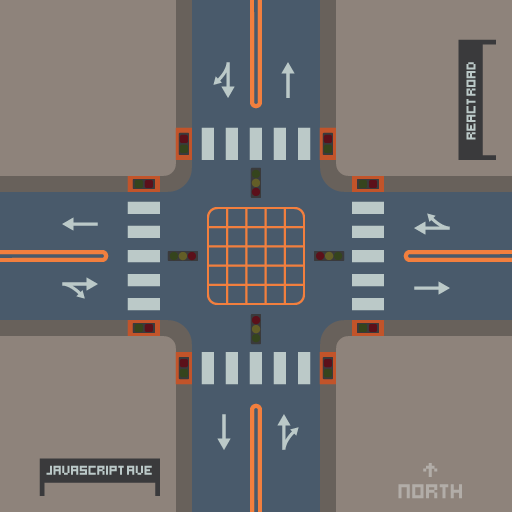
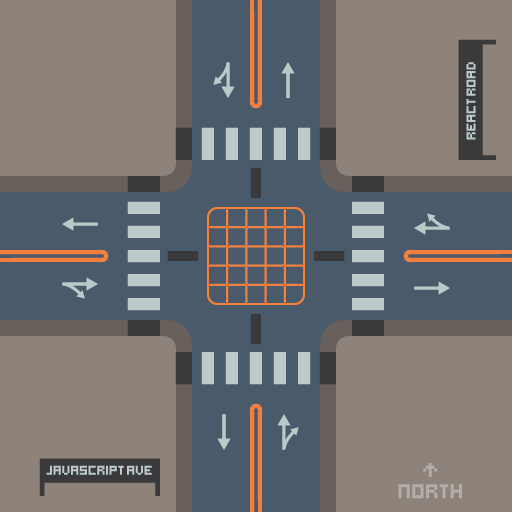
Cambios finales, faltaría comentarlo

diff --git a/src/styles/index.css b/src/styles/index.css
@@ -27,8 +27,14 @@ body {
     box-shadow: inset 0px 0px 10px rgba(0,0,0,0.5);
 }
 
+.title {
+    height: 60px;
+    margin-top: 60px;
+    text-align: center;
+}
+
 h1 {
-    font-family: 'Press Start 2P', cursive;
+    font-family: 'VT323';
 }
 
 .JSTtrafNorth {
@@ -50,35 +56,53 @@ h1 {
     top: 206px;
 }
 
-.JSPedWestN {
+.JSPedNorthNE {
     position:relative;
     display: block;
-    left:112px;
-    top:142px;
-    -webkit-transform:rotate(90deg);
-    -moz-transform: rotate(90deg);
-    -ms-transform: rotate(90deg);
-    -o-transform: rotate(90deg);
-    transform: rotate(90deg);
+    left:36px;
+    top: 104px;    
+    -webkit-transform:rotate(180deg);
+    -moz-transform: rotate(180deg);
+    -ms-transform: rotate(180deg);
+    -o-transform: rotate(180deg);
+    transform: rotate(180deg);
+    
 }
 
-.JSPedWestS {
+.JSPedNorthNW {
     position:relative;
     display: block;
-    left:112px;
-    top:264px;
-    -webkit-transform:rotate(90deg);
-    -moz-transform: rotate(90deg);
-    -ms-transform: rotate(90deg);
-    -o-transform: rotate(90deg);
-    transform: rotate(90deg);
+    right:36px;
+    top: 84px;    
+
+    
+}
+
+.JSPedSouthSE {
+    position:relative;
+    display: block;
+    left:36px;
+    top: 288px;    
+    -webkit-transform:rotate(180deg);
+    -moz-transform: rotate(180deg);
+    -ms-transform: rotate(180deg);
+    -o-transform: rotate(180deg);
+    transform: rotate(180deg);
+    
+}
+
+.JSPedSouthSW {
+    position:relative;
+    display: block;
+    right:36px;
+    top: 270px;
 }
 
 
 
 
 .RETrafEast {
-    position: relative;
+    position:relative;
     display: block;
     left:74px;
     top:66px;
@@ -89,11 +113,11 @@ h1 {
     transform: rotate(-90deg);
 }
 
-.RETWest {
+.RETrafWest {
     position: relative;
     display: block;
     right:74px;
-    top:66px;
+    top:68px;
     -webkit-transform:rotate(90deg);
     -moz-transform: rotate(90deg);
     -ms-transform: rotate(90deg);
@@ -101,14 +125,54 @@ h1 {
     transform: rotate(90deg);
 }
 
-.REPedNorth{
+.REPedEastNE {
     position:relative;
     display: block;
-    right:300px;
+    left:112px;
+    top: 42px;    
+    -webkit-transform:rotate(90deg);
+    -moz-transform: rotate(90deg);
+    -ms-transform: rotate(90deg);
+    -o-transform: rotate(90deg);
+    transform: rotate(90deg);
+    
 }
 
-.REPedSouth {
+.REPedEastSE {
     position:relative;
     display: block;
-    right:320px;
+    left:112px;
+    top: 92px;    
+    -webkit-transform:rotate(-90deg);
+    -moz-transform: rotate(-90deg);
+    -ms-transform: rotate(-90deg);
+    -o-transform: rotate(-90deg);
+    transform: rotate(-90deg);
+    
+}
+
+.REPedWestNW {
+    position:relative;
+    display: block;
+    right:112px;
+    bottom: 48px;    
+    -webkit-transform:rotate(90deg);
+    -moz-transform: rotate(90deg);
+    -ms-transform: rotate(90deg);
+    -o-transform: rotate(90deg);
+    transform: rotate(90deg);
+    
+}
+
+.REPedWestSE {
+    position:relative;
+    display: block;
+    right:112px;
+    top: 44px;    
+    -webkit-transform:rotate(-90deg);
+    -moz-transform: rotate(-90deg);
+    -ms-transform: rotate(-90deg);
+    -o-transform: rotate(-90deg);
+    transform: rotate(-90deg);
+    
 }

diff --git a/src/js/component/BaseLayer.jsx b/src/js/component/BaseLayer.jsx
@@ -9,37 +9,40 @@ const Baselayer = () => {
 	return (
 		<>
 			<div className="main">
-				<div className="title">
-					<h1>
-						Welcome to the crossroads between javascript and react
-					</h1>
-				</div>
+				<div className="title"></div>
 				<div
 					className="city"
 					style={{ backgroundImage: `url(${Citybg})` }}>
 					<div className="JSNorth">
 						<div className="JST JSTtrafNorth"></div>
-						<div className="JSP JSPedEast"></div>
-						<div className="JSP JSPedEast"></div>
+						<div className="JSP JSPedNorthNE"></div>
+						<div className="JSP JSPedNorthNW"></div>
 					</div>
 
 					<div className="JSSouth">
-						<div className="JSP JSPedWestN"></div>
-						<div className="JSP JSPedWestS"></div>
+						<div className="JSP JSPedSouthSE"></div>
+						<div className="JSP JSPedSouthSW"></div>
 						<div className="JST JSTtrafSouth"></div>
 					</div>
 
 					<div className="REEast">
 						<div className="RET RETrafEast"></div>
-						<div className="REP REPedNorth"></div>
-						<div className="REP REPedSouth"></div>
+						<div className="REP REPedEastNE"></div>
+						<div className="REP REPedEastSE"></div>
 					</div>
 
 					<div className="REWest">
-						<div className="RET RETWest"></div>
-						<div className="REP REPedNorth"></div>
-						<div className="REP REPedSouth"></div>
+						<div className="RET RETrafWest"></div>
+						<div className="REP REPedWestSE"></div>
+						<div className="REP REPedWestNW"></div>
 					</div>
+				</div>
+
+				<div className="title">
+					<h1>
+						Welcome to the crossroads between <br />
+						Javascript Avenue and React Road
+					</h1>
 				</div>
 			</div>
 		</>

diff --git a/template.html b/template.html
@@ -7,7 +7,7 @@
 
         <link rel="preconnect" href="https://fonts.googleapis.com">
         <link rel="preconnect" href="https://fonts.gstatic.com" crossorigin>
-        <link href="https://fonts.googleapis.com/css2?family=Press+Start+2P&display=swap" rel="stylesheet">
+        <link href="https://fonts.googleapis.com/css2?family=VT323&display=swap" rel="stylesheet">
        
         <link href="https://cdn.jsdelivr.net/npm/bootstrap@5.1.3/dist/css/bootstrap.min.css" rel="stylesheet" integrity="sha384-1BmE4kWBq78iYhFldvKuhfTAU6auU8tT94WrHftjDbrCEXSU1oBoqyl2QvZ6jIW3" crossorigin="anonymous">
         <link rel="stylesheet" href="https://use.fontawesome.com/releases/v5.2.0/css/all.css" integrity="sha384-hWVjflwFxL6sNzntih27bfxkr27PmbbK/iSvJ+a4+0owXq79v+lsFkW54bOGbiDQ" crossorigin="anonymous">
